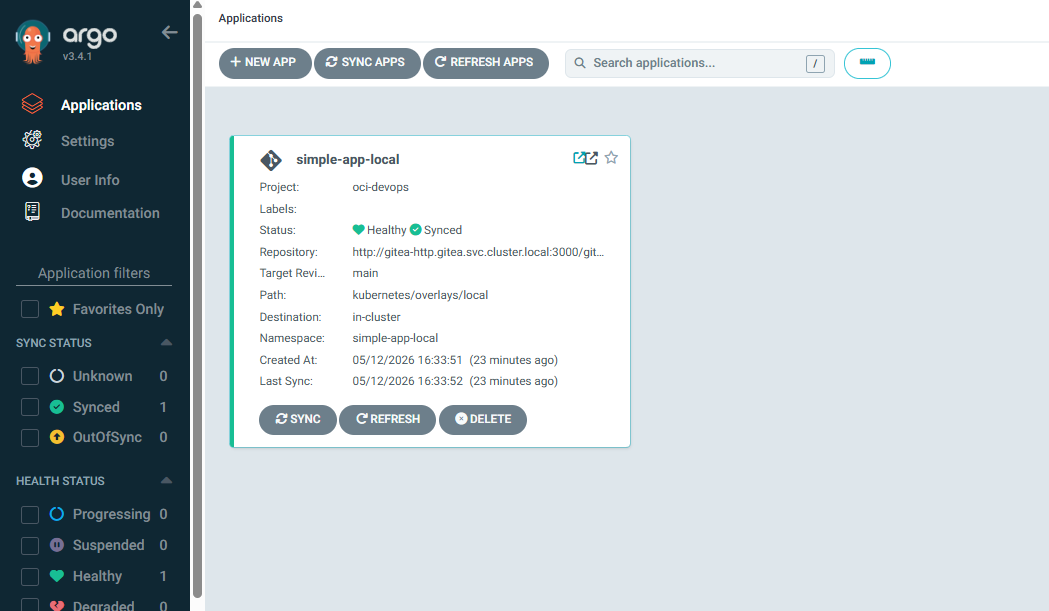
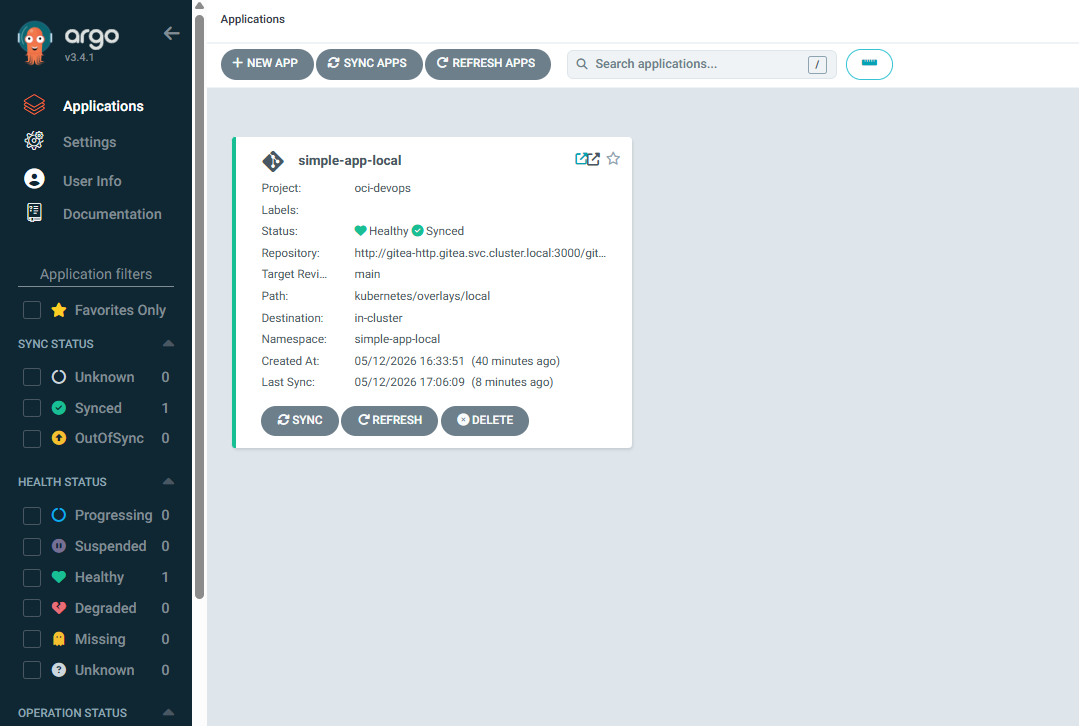
docs: showcase local demo and oci blueprint

Changed region(s): [[0.0, 0.0, 1.0, 1.0], [0.0, 0.0311, 0.122, 0.0933]]

diff --git a/README.md b/README.md
@@ -1,16 +1,130 @@
 # OCI AI DevOps Platform
 
-Arquitetura completa de DevOps na Oracle Cloud Infrastructure (OCI) com OKE, OCIR, Terraform, GitOps, observabilidade e seguranca.
+Projeto de portfolio DevOps/Cloud com duas formas de uso:
 
-## Visao Geral
+- **Demo local completa**: kind + Gitea + ArgoCD + Ingress + Prometheus + Grafana + Loki + Alloy + Alertmanager.
+- **Blueprint OCI**: Terraform para OCI com OKE, OCIR, Vault, Bastion, rede, GitLab CI e GitOps com ArgoCD.
+
+## Demo Local
+
+Fluxo local:
 
 ```text
-Developer -> CI/CD -> OCIR -> GitOps repo -> ArgoCD -> OKE
-                                      |
-Internet -> OCI Load Balancer -> Ingress -> simple-app
-                                      |
-                         Prometheus + Grafana + Loki + Alloy
+Gitea local -> ArgoCD -> kind -> ingress-nginx -> simple-app
+                         |
+                         +-> Prometheus / Grafana / Loki / Alloy / Alertmanager
 ```
+
+Estado validado:
+
+- cluster kind com 1 control-plane e 2 workers;
+- `simple-app` com 2 replicas, uma em cada worker;
+- app exposta via Ingress em `http://localhost:8080`;
+- ArgoCD sincronizando do Gitea local;
+- Grafana conectado ao Prometheus;
+- Prometheus monitorando a app com `up=1`;
+- ferramentas administrativas acessadas por `port-forward`.
+
+### Subir Local
+
+```powershell
+.\scripts\delete-local-cluster.ps1
+.\scripts\bootstrap-local.ps1
+```
+
+App:
+
+```text
+http://localhost:8080
+```
+
+Servicos administrativos:
+
+```powershell
+kubectl -n gitea port-forward svc/gitea-http 3001:3000
+kubectl -n argocd port-forward svc/argocd-server 8081:443
+kubectl -n observability port-forward svc/grafana 3000:80
+kubectl -n observability port-forward svc/prometheus 9090:9090
+kubectl -n observability port-forward svc/alertmanager 9093:9093
+```
+
+Credenciais locais:
+
+| Servico | URL | Usuario | Senha |
+| --- | --- | --- | --- |
+| Gitea admin | `http://localhost:3001` | `gitea` | `gitea1234` |
+| Gitea GitOps | `http://localhost:3001` | `gitops` | `gitops1234` |
+| Grafana | `http://localhost:3000` | `admin` | `admin` |
+| ArgoCD | `https://localhost:8081` | `admin` | Secret `argocd-initial-admin-secret` |
+
+Senha atual do ArgoCD:
+
+```powershell
+$encoded = kubectl -n argocd get secret argocd-initial-admin-secret -o jsonpath='{.data.password}'
+[Text.Encoding]::UTF8.GetString([Convert]::FromBase64String($encoded))
+```
+
+## Evidencias Da Demo
+
+### Cluster kind
+
+![kind nodes](docs/img/01-kind-nodes.png)
+
+### Pods em todos os namespaces
+
+![pods all namespaces](docs/img/02-pods-all-namespaces.png)
+
+### App distribuida nos workers
+
+![app worker node](docs/img/03-app-worker-node.png)
+
+### ArgoCD sincronizado
+
+![argocd synced healthy](docs/img/04-argocd-synced-healthy.png)
+
+### Repositorio no Gitea
+
+![gitea repo](docs/img/05-gitea-repo.png)
+
+### Aplicacao no navegador
+
+![simple app browser](docs/img/06-simple-app-browser.png)
+
+### Grafana monitorando a app
+
+![grafana dashboard](docs/img/07-grafana-dashboard.png)
+
+### Prometheus com `up=1`
+
+![prometheus query](docs/img/08-prometheus-query.png)
+
+### Alertmanager
+
+![alertmanager](docs/img/09-alert-manager.png)
+
+## Blueprint OCI
+
+Fluxo OCI:
+
+```text
+Developer -> GitLab CI -> OCIR -> GitOps repo -> ArgoCD -> OKE
+                                                |
+Internet -> OCI Load Balancer -> Ingress -> simple-app
+                                                |
+                           Prometheus / Grafana / Loki / Alloy
+```
+
+Infra provisionada por Terraform:
+
+- VCN;
+- subnets publicas, privadas e de Load Balancer;
+- Internet Gateway, NAT Gateway e Service Gateway;
+- Network Security Groups;
+- OKE;
+- OCIR;
+- Vault;
+- Bastion;
+- recursos de observabilidade OCI.
 
 ## Componentes
 
@@ -19,34 +133,16 @@ Internet -> OCI Load Balancer -> Ingress -> simple-app
 | `.claude/` | Agents e comandos para planejar, gerar, revisar e operar a plataforma com Claude Code. |
 | `app/` | Aplicacao HTML simples servida por Nginx e empacotada em container. |
 | `terraform/` | Infra OCI: VCN, subnets, gateways, NSGs, OKE, OCIR, Vault, Bastion e observabilidade nativa. |
-| `kubernetes/` | Manifests base e overlays Kustomize para dev, hml e prod. |
+| `kubernetes/` | Manifests base e overlays Kustomize para local, dev, hml e prod. |
 | `helm/` | Chart Helm da aplicacao. |
 | `gitops/` | Aplicacoes ArgoCD para sincronizar o cluster com o Git. |
 | `pipelines/` | GitLab CI para build, push no OCIR e atualizacao GitOps. |
 | `observability/` | Prometheus, Grafana, Loki, Alloy e Alertmanager. |
 | `security/` | RBAC, NetworkPolicy, External Secrets e policies de admissao. |
 | `docs/` | Documentacao de arquitetura, rede, CI/CD, GitOps, observabilidade e troubleshooting. |
-| `scripts/` | Utilitarios para kubeconfig, login no OCIR, deploy local e destroy. |
+| `scripts/` | Utilitarios para local demo, kubeconfig, login no OCIR e destroy. |
 
-## Quick Start
-
-### Local com kind
-
-```powershell
-.\scripts\bootstrap-local.ps1
-kubectl -n simple-app-local port-forward svc/simple-app 8080:80
-```
-
-Abra `http://localhost:8080`. A aplicacao local usa Ingress via `ingress-nginx`.
-
-Servicos locais:
-
-- Gitea: `kubectl -n gitea port-forward svc/gitea-http 3001:3000`
-- ArgoCD: `kubectl -n argocd port-forward svc/argocd-server 8081:443`
-- Grafana: `kubectl -n observability port-forward svc/grafana 3000:80`
-- Prometheus: `kubectl -n observability port-forward svc/prometheus 9090:9090`
-
-### OCI
+## OCI Quick Start
 
 1. Configure as variaveis OCI em `terraform/environments/<env>/variables.tf`.
 2. Copie `terraform.tfvars.example` para `terraform.tfvars` no ambiente desejado.
@@ -65,13 +161,13 @@ terraform apply
 ./scripts/setup-kubeconfig.sh dev
 ```
 
-6. Faca login no OCIR e publique a imagem:
+6. Faca login no OCIR:
 
 ```bash
 ./scripts/login-ocir.sh
 ```
 
-7. Aplique a app via Kustomize ou deixe o ArgoCD reconciliar o overlay:
+7. Deixe o ArgoCD reconciliar o overlay do ambiente ou aplique manualmente:
 
 ```bash
 kubectl apply -k kubernetes/overlays/dev
@@ -91,6 +187,7 @@ oci-ai-devops-platform/
 |-- observability/
 |-- security/
 |-- docs/
+|-- local/
 `-- scripts/
 ```
 
@@ -98,6 +195,7 @@ oci-ai-devops-platform/
 
 | Ambiente | Namespace | Replicas | Uso esperado |
 | --- | --- | --- | --- |
+| local | `simple-app-local` | 2 | Demo local com kind e GitOps via Gitea. |
 | dev | `simple-app-dev` | 1 | Testes rapidos e validacao de infraestrutura. |
 | hml | `simple-app-hml` | 2 | Homologacao proxima de producao. |
 | prod | `simple-app-prod` | 3 | Operacao com HPA, PDB e politicas restritivas. |
@@ -114,4 +212,4 @@ oci-ai-devops-platform/
 
 ## Status
 
-Este repositorio e um blueprint pronto para portifolio e laboratorio. Antes de usar em producao, revise CIDRs, IAM, politicas de seguranca, budgets, retencao de logs, certificados TLS e estrategia de backup.
+Este repositorio esta pronto como demo local e blueprint OCI. Antes de usar em producao, revise CIDRs, IAM, politicas de seguranca, budgets, retencao de logs, certificados TLS, estrategia de backup e secrets reais.

diff --git a/docs/screenshots.md b/docs/screenshots.md
@@ -61,9 +61,11 @@ Nomes sugeridos:
 ```text
 01-kind-nodes.png
 02-pods-all-namespaces.png
-03-gitea-repo.png
+03-app-worker-node.png
 04-argocd-synced-healthy.png
-05-simple-app-browser.png
-06-grafana-dashboard.png
-07-prometheus-targets.png
+05-gitea-repo.png
+06-simple-app-browser.png
+07-grafana-dashboard.png
+08-prometheus-query.png
+09-alert-manager.png
 ```
